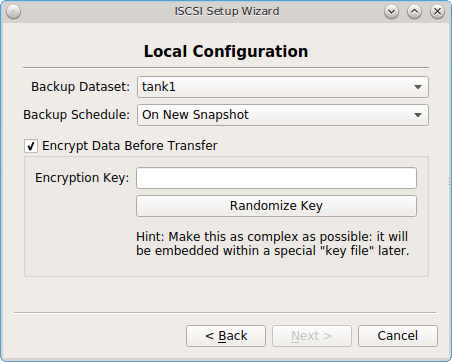
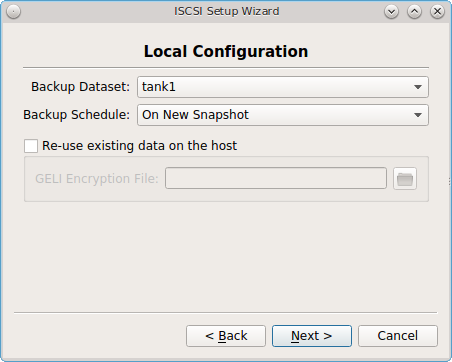
Update screenshot for wizard. Still needs more testing...

diff --git a/src-qt5/docs/controlpanel.rst b/src-qt5/docs/controlpanel.rst
@@ -2886,7 +2886,7 @@ Once you have successfully created the :file:`.lps` file and copied it to the PC
 | target host name | the IP address of the server which will hold the encrypted backups                                                        |
 |                  |                                                                                                                           |
 +------------------+---------------------------------------------------------------------------------------------------------------------------+
-| target name      | can be anything, as long as it is unique                                                                                  |
+| target name      | can be anything, as long as it is does not already exist in :file:`/etc/ctl.conf`                                         |
 |                  |                                                                                                                           |
 +------------------+---------------------------------------------------------------------------------------------------------------------------+
 | CHAP username    | must be between 8 and 12 characters                                                                                       |
@@ -2936,9 +2936,11 @@ This screen lets you configure the following:
 * **Backup Schedule:** choices are "On New Snapshot", "Manually Started", "Daily", "Hourly", "Every 30 Minutes", or "Every 10 Minutes". If you select "Daily",
   another field will appear so that you can set the time.
 
-* **Encrypt Data Before Transfer:**
-
-* **Encryption Key:**
+* **Re-use existing data on the host:** by default, this box is unchecked as the encryption key will be automatically generated for you and stored in
+  :file:`/var/db/lpreserver/keys`. If you have configured an encrypted backup to the remote backup system in the past and still have a copy of the encryption key for that
+  system, check this box and use the browse button to add the key to the "GELI Encryption File" field.
+  
+When finished, click "Next". A pop-up menu will ask if you are ready to enable off-site data storage. Click "Yes" to complete the configuration. This may take a few minutes.
 
 Restoring the Operating System
 ------------------------------
